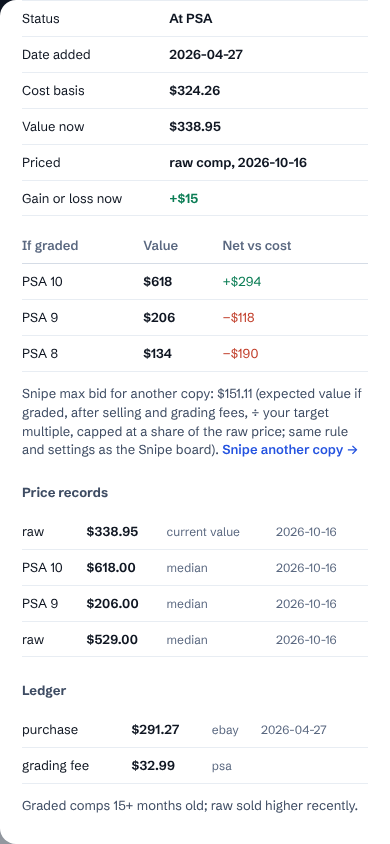
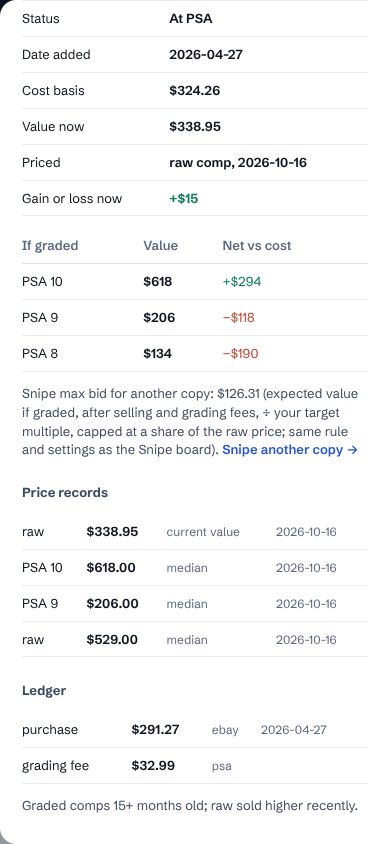
review(C5): test the same-date value_used tie-break; retake Vault max-bid screenshots (Mainoo $126.31)
The Mainoo fixture lists value_used first and Array.sort is stable, so the
tests passed with the tie-break removed. Assert on reversed row order too.

Claude-Session: https://claude.ai/code/session_018ZUH9edAfL4gQL3WiTpSKG

Changed region(s): [[0.0615, 0.4621, 0.9231, 0.4929]]

diff --git a/apps/dashboard/src/lib/vault-comp.test.ts b/apps/dashboard/src/lib/vault-comp.test.ts
@@ -15,6 +15,9 @@ const mainoo = [
 test("max-bid inputs: same-date value_used wins over the sale median (Mainoo 19/49 raw 338.95, not 529)", () => {
   assert.deepEqual(maxBidInputs(mainoo), { raw: 338.95, psa9: 206, psa10: 618 });
   assert.equal(vaultComp(mainoo, "raw")?.price, 338.95);
+  // Same result whatever the row order (sort is stable, so this checks the tie-break itself).
+  assert.deepEqual(maxBidInputs([...mainoo].reverse()), { raw: 338.95, psa9: 206, psa10: 618 });
+  assert.equal(vaultComp([...mainoo].reverse(), "raw")?.price, 338.95);
 });
 
 test("max-bid inputs: newest comp wins, owner overrides count", () => {
